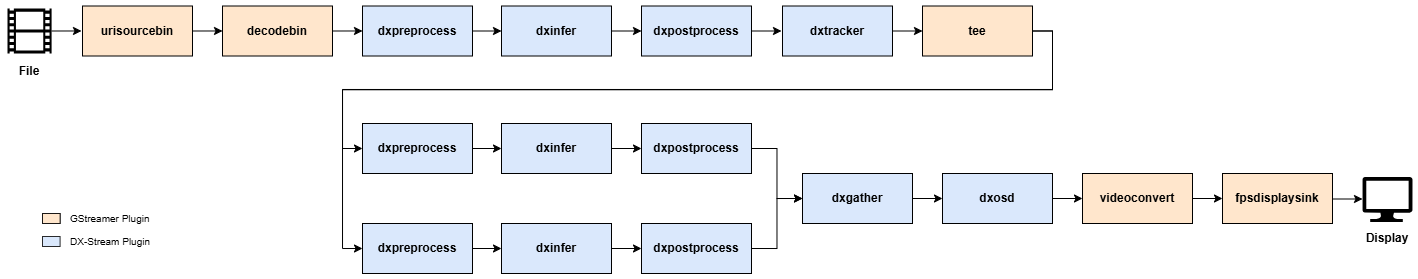
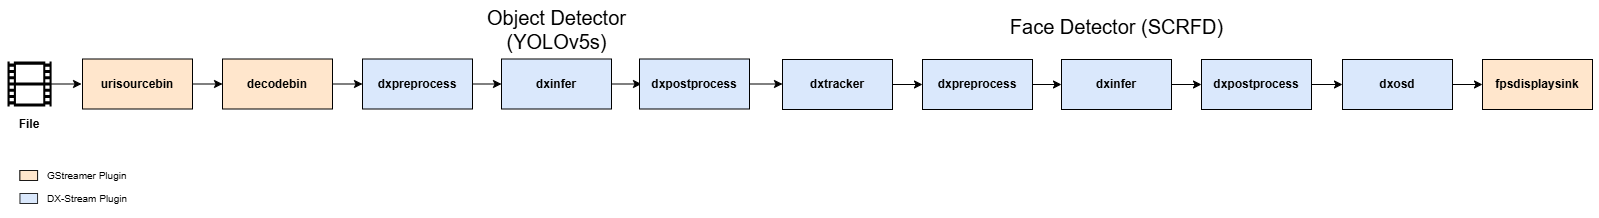
v2.1.0-rc+manual-20251205.5e63580

diff --git a/dx_stream/custom_library/postprocess_library/PPU/postprocess.cpp b/dx_stream/custom_library/postprocess_library/PPU/postprocess.cpp
@@ -544,3 +544,86 @@ extern "C" void SCRFD500M_PPU(GstBuffer *buf,
         dx_add_object_meta_to_frame_meta(object_meta, frame_meta);
     }
 }
+
+extern "C" void SCRFD500M_PPU_SECOND(GstBuffer *buf,
+                                     std::vector<dxs::DXTensor> network_output,
+                                     DXFrameMeta *frame_meta,
+                                     DXObjectMeta *object_meta) {
+
+    YoloConfig config;
+
+    config.input_size = 640;
+    config.num_keypoints = 5;
+    config.num_classes = 1;
+    config.conf_threshold = 0.5f;
+    config.nms_threshold = 0.45f;
+    config.class_names = {"face"};
+    config.strides = {8, 16, 32};
+    config.anchors.clear();
+
+    std::vector<BoundingBox> all_boxes;
+
+    if (network_output.size() != 1) {
+        GST_ERROR("Unexpected number of outputs: %ld", network_output.size());
+        return;
+    }
+
+    if (network_output[0]._type != dxs::DataType::FACE) {
+        GST_ERROR("Data type is not FACE");
+        return;
+    }
+
+    all_boxes = decode_face(network_output[0], config);
+
+    auto results = nms(all_boxes, config.nms_threshold);
+
+    if (results.size() == 0) {
+        return;
+    }
+
+    auto ret = results[0];
+    
+    int origin_w = object_meta->_box[2] - object_meta->_box[0];
+    int origin_h = object_meta->_box[3] - object_meta->_box[1];
+    if (frame_meta->_roi[0] != -1 && frame_meta->_roi[1] != -1 &&
+        frame_meta->_roi[2] != -1 && frame_meta->_roi[3] != -1) {
+        origin_w = frame_meta->_roi[2] - frame_meta->_roi[0];
+        origin_h = frame_meta->_roi[3] - frame_meta->_roi[1];
+    }
+
+    float r = std::min(config.input_size / (float)origin_w,
+                        config.input_size / (float)origin_h);
+    float w_pad = (config.input_size - origin_w * r) / 2.;
+    float h_pad = (config.input_size - origin_h * r) / 2.;
+
+    float x1 = (ret.x1 - w_pad) / r;
+    float x2 = (ret.x2 - w_pad) / r;
+    float y1 = (ret.y1 - h_pad) / r;
+    float y2 = (ret.y2 - h_pad) / r;
+
+    x1 = std::min((float)origin_w, std::max((float)0.0, x1));
+    x2 = std::min((float)origin_w, std::max((float)0.0, x2));
+    y1 = std::min((float)origin_h, std::max((float)0.0, y1));
+    y2 = std::min((float)origin_h, std::max((float)0.0, y2));
+
+    object_meta->_face_confidence = ret.confidence;
+    object_meta->_label = ret.class_id;
+    object_meta->_label_name = g_string_new(ret.class_name.c_str());
+    object_meta->_face_box[0] = x1 + object_meta->_box[0];
+    object_meta->_face_box[1] = y1 + object_meta->_box[1];
+    object_meta->_face_box[2] = x2 + object_meta->_box[0];
+    object_meta->_face_box[3] = y2 + object_meta->_box[1];
+
+    object_meta->_face_landmarks.clear();
+    for (int k = 0; k < config.num_keypoints; k++) {
+        float kx = (ret.keypoints[k * 3 + 0] - w_pad) / r;
+        float ky = (ret.keypoints[k * 3 + 1] - h_pad) / r;
+        float ks = ret.keypoints[k * 3 + 2];
+
+        kx = std::max(0.0f, std::min(static_cast<float>(origin_w), kx));
+        ky = std::max(0.0f, std::min(static_cast<float>(origin_h), ky));
+
+        object_meta->_face_landmarks.push_back(dxs::Point_f(kx + object_meta->_box[0], ky + object_meta->_box[1], ks));
+    }
+
+}

diff --git a/gst-dxstream-plugin/src/preprocessors/preprocessor.cpp b/gst-dxstream-plugin/src/preprocessors/preprocessor.cpp
@@ -27,7 +27,7 @@ bool Preprocessor::check_object(DXFrameMeta *frame_meta, DXObjectMeta *object_me
                 1;
         } else {
             element->_track_cnt[frame_meta->_stream_id][object_meta->_track_id] =
-                0;
+                1;
         }
 
         if (element->_track_cnt[frame_meta->_stream_id][object_meta->_track_id] <

diff --git a/RELEASE_NOTES.md b/RELEASE_NOTES.md
@@ -1,5 +1,5 @@
 # RELEASE_NOTES
-## v2.1.0 / 2025-10-13
+## v2.1.0 / 2025-11-28
 
 ### 1. Changed
 - **Model Configuration**: Updated default YOLOv5 from YOLOV5S_3 to YOLOV5S_4 with models-2_1_0.tar.gz
@@ -10,8 +10,8 @@
 - **Configuration**: Streamlined msgconv configuration by removing unnecessary sections
 - Modified event handling logic in 'dxpreprocess', 'dxinfer', 'dxoutputselector' and 'dxosd' to align with updates to 'dxinputselector'.
 - feat: enhance dependency installation for Debian 12
-  - Smart version checking for meson (apt/backports/pip fallback)
-  - Handle libdrm version conflicts without breaking HW acceleration
+    - Smart version checking for meson (apt/backports/pip fallback)
+    - Handle libdrm version conflicts without breaking HW acceleration
 
 ### 2. Fixed
 - **Setup Scripts**: Improved error handling and prevented excessive download retry attempts
@@ -23,11 +23,11 @@
 
 ### 3. Added
 - **PPU Support**: Integrated Post-Processing Unit functionality for YOLOv5s, SCRFD500M, and YOLOv5Pose models
-  - NPU-based bounding box decoding and NMS processing to reduce CPU overhead
-  - Three new demo options showcasing PPU capabilities
+    - NPU-based bounding box decoding and NMS processing to reduce CPU overhead
+    - Three new demo options showcasing PPU capabilities
 - **Download Reliability**: Enhanced setup scripts with timeout limits and file integrity verification
-  - Automatic verification and cleanup of corrupted archives
-  - Prevents infinite retry loops that could cause hour-long hangs
+    - Automatic verification and cleanup of corrupted archives
+    - Prevents infinite retry loops that could cause hour-long hangs
 - Installation Guide for Orange Pi 5 Plus
 - Performance Analysis Tools: Added GstShark integration for comprehensive pipeline performance evaluation
     - Automated installation script 'install_gstshark.sh' for easy setup
@@ -35,6 +35,10 @@
     - Support for CPU usage, processing time, frame rate, and bitrate analysis
 - **Preprocessing Features**: Added preprocess skip functionality for conditional processing
 - **Build Support**: Added build configuration for v3 architecture
+
+### 4. Known Issues.
+- DeepLabV3 Semantic Segmentation model accuracy may be slightly degraded in dx-compiler(dx_com) v2.1.0. This will be fixed in the next release. The DeepLabV3 model used in the demo was converted using dx-compiler v2.0.0.
+- When using the PPU model for face detection & pose estimation, dx-compiler v2.1.0 does not currently support converting face and pose models to PPU format. This feature will be added in a future release. The PPU models used in the demo were converted using dx-compiler v1.0.0(dx_com v1.60.1).
 
 ## v2.0.0 / 2025-08-28
 

diff --git a/docs/source/docs/Pipeline_Example/05_03_Secondary-Inference.md b/docs/source/docs/Pipeline_Example/05_03_Secondary-Inference.md
@@ -1,10 +1,8 @@
 This section describes the secondary mode inference pipeline, which performs object-level inference based on objects detected in the primary mode. A single input stream is processed through primary inference for object detection, followed by tracking.  
 
-Using a `tee` element, the buffer is duplicated into two streams.
-One stream proceeds to secondary inference, where additional tasks such as face detection and Re-ID feature extraction are performed, with the results stored in each object’s metadata.  
+The tracked objects are then passed to secondary inference, where additional tasks such as face detection are performed on each detected object, with the results stored in each object's metadata.  
 
-Then, the `dxgather` element collects the outputs from the secondary inference streams and merges them into a single buffer, converting the data back into a unified stream.
-Finally, the results are rendered for visualization.  
+Finally, the results are rendered for visualization.
 
 ![](./../../resources/05_03_secondary_pipeline.png)
 
@@ -13,16 +11,17 @@ The pipeline in the figure is defined in
 
 ### **Explanation**  
 
-**Element Descriptions**  
+**Pipeline Flow**  
 
-- **`tee`**: Duplicates a single stream into multiple streams. The duplicated output buffers originate from the same source buffer.  
-- **`dxgather`**: Merges buffers originating from the same source but split by tee, and combines their inference results into a single buffer. 
+1. **Object Detection**: Primary inference detects objects in the input stream
+2. **Tracker**: Assigns unique IDs to detected objects and tracks them across frames
+3. **Secondary Face Detection**: Performs face detection on each tracked object
 
 ### **Usage Notes**  
 
 **Configure file setting** 
 
-- This pipeline runs three different models concurrently. Therefore, be careful to configure each model’s preprocess_id and inference_id properly to avoid unexpected behavior.
+- This pipeline runs multiple models sequentially. Be careful to configure each model's preprocess_id and inference_id properly to avoid unexpected behavior.
 
 **Secondary post process**
 

diff --git a/docs/source/docs/Appendix_Change_Log.md b/docs/source/docs/Appendix_Change_Log.md
@@ -1,4 +1,4 @@
-## Version 2.1.0 (Oct 2025)
+## Version 2.1.0 (Nov 2025)
 
 #### Changed
 - **Model Configuration**: Updated default YOLOv5 from YOLOV5S_3 to YOLOV5S_4 with models-2_1_0.tar.gz
@@ -18,11 +18,11 @@
 
 #### Added
 - **PPU Support**: Integrated Post-Processing Unit functionality for YOLOv5s, SCRFD500M, and YOLOv5Pose models
-  - NPU-based bounding box decoding and NMS processing to reduce CPU overhead
-  - Three new demo options showcasing PPU capabilities
+    - NPU-based bounding box decoding and NMS processing to reduce CPU overhead
+    - Three new demo options showcasing PPU capabilities
 - **Download Reliability**: Enhanced setup scripts with timeout limits and file integrity verification
-  - Automatic verification and cleanup of corrupted archives
-  - Prevents infinite retry loops that could cause hour-long hangs
+    - Automatic verification and cleanup of corrupted archives
+    - Prevents infinite retry loops that could cause hour-long hangs
 - Installation Guide for Orange Pi 5 Plus
 - Performance Analysis Tools: Added GstShark integration for comprehensive pipeline performance evaluation
     - Automated installation script 'install_gstshark.sh' for easy setup
@@ -30,6 +30,10 @@
     - Support for CPU usage, processing time, frame rate, and bitrate analysis
 - **Preprocessing Features**: Added preprocess skip functionality for conditional processing
 - **Build Support**: Added build configuration for v3 architecture
+
+**Known Issues.** 
+- DeepLabV3 Semantic Segmentation model accuracy may be slightly degraded in dx-compiler(dx_com) v2.1.0. This will be fixed in the next release. The DeepLabV3 model used in the demo was converted using dx-compiler v2.0.0.
+- When using the PPU model for face detection & pose estimation, dx-compiler v2.1.0 does not currently support converting face and pose models to PPU format. This feature will be added in a future release. The PPU models used in the demo were converted using dx-compiler v1.0.0(dx_com v1.60.1).
 
 ## Version 2.0.0 (Aug 2025)
 

diff --git a/RELEASE_NOTES_MATERIAL.md b/RELEASE_NOTES_MATERIAL.md
@@ -1,3 +1,8 @@
+## PR 139
+### 1. Changed
+- update secondary mode pipeline for SCRFD500M_PPU_SECOND [SR-198](https://deepx.atlassian.net/browse/SR-198)
+### 2. Fixed
+### 3. Added
 ## PR 137 NOTHING NEW
 ## PR 136
 ### 1. Changed
